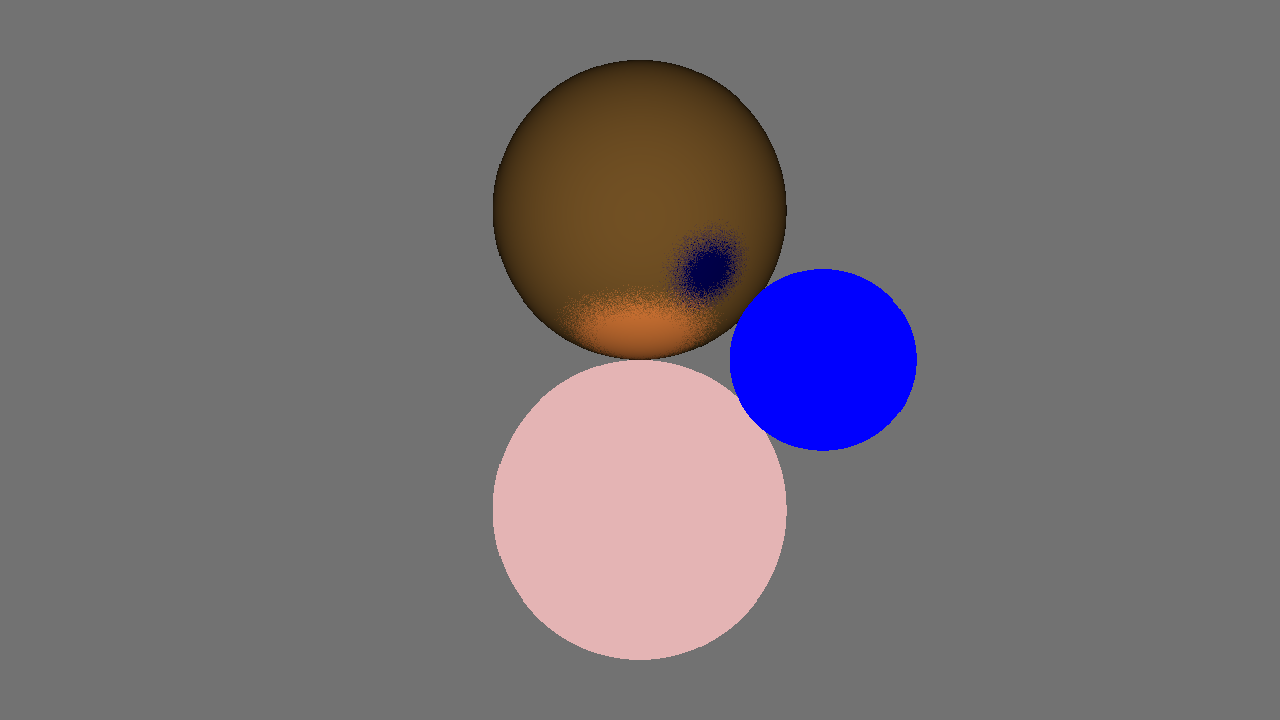
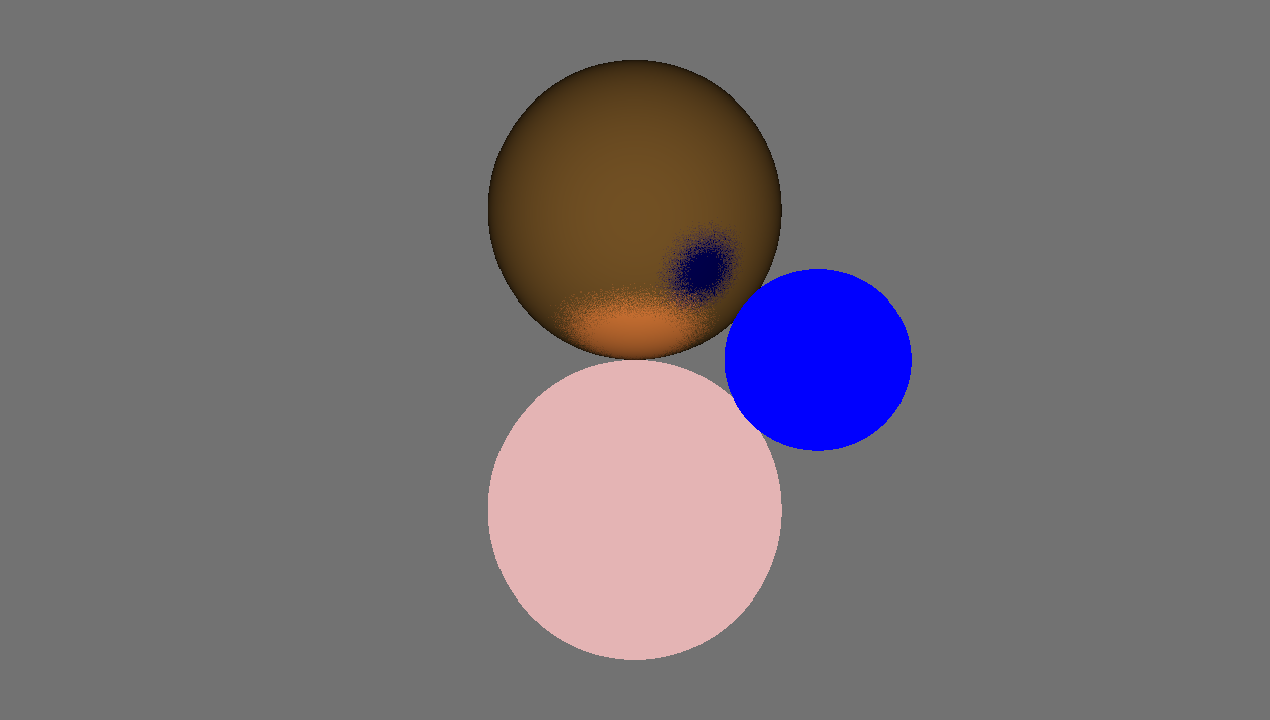
✨ Now passing work_task as Arc

Changed region(s): [[0.4299, 0.3361, 0.5835, 0.4583]]

diff --git a/src/raytracer/mod.rs b/src/raytracer/mod.rs
@@ -15,6 +15,8 @@ use window::Window;
 use glam::{Vec2, Vec3};
 use image::ImageBuffer;
 use rand::prelude::*;
+use std::sync::{Arc, Mutex};
+use std::thread;
 
 #[derive(Debug)]
 struct Work {
@@ -283,7 +285,8 @@ impl Stray {
         return work_queue;
     }
 
-    fn worker_job(&self, work_task: &mut Work) {
+    fn worker_job(&self, work_task_rc: Arc<Mutex<&mut Work>>) {
+        let mut work_task = work_task_rc.lock().unwrap();
         let task_width = work_task.upper_right_tile.0 - work_task.lower_left_tile.0;
         let task_height = work_task.upper_right_tile.1 - work_task.lower_left_tile.1;
 
@@ -351,7 +354,7 @@ impl Stray {
         let mut work_task_index: i32 = (number_of_all_tasks - 1) as i32;
 
         for _i in 0..number_of_all_tasks {
-            let work_task = &mut work_queue[work_task_index as usize];
+            let work_task = Arc::new(Mutex::new(&mut work_queue[work_task_index as usize]));
             self.worker_job(work_task);
             work_task_index -= 1;
         }

diff --git a/src/main.rs b/src/main.rs
@@ -3,7 +3,7 @@ use stray::raytracer::Stray;
 fn main() {
     let mut stray = Stray::new();
 
-    stray.set_window_dimensions(1280, 720);
+    stray.set_window_dimensions(1270, 720);
     stray.set_background((0.2, 0.2, 0.2));
     stray.set_number_of_threads(4);
 
